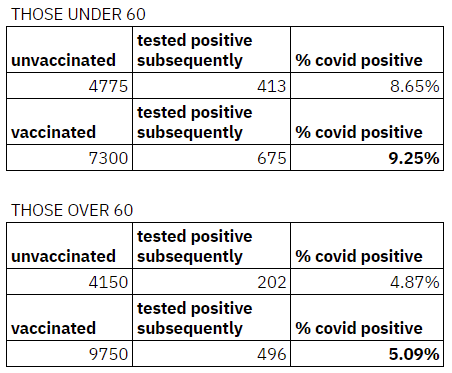
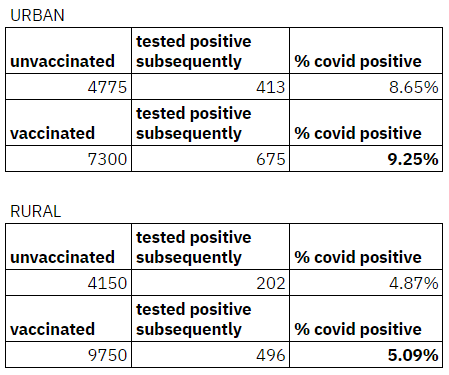
minor edits

Changed region(s): [[0.0, 0.5308, 0.9978, 1.0], [0.0, 0.0, 0.9978, 0.4424]]

diff --git a/_posts/2023-01-31-data-groening.md b/_posts/2023-01-31-data-groening.md
@@ -27,29 +27,27 @@ you need to back up your assertions with some data.
 
 In each of these scenarios, data is being used to tell a story. There is a null hypothesis and the data being presented is good only so long as it validates that story.
 
-# Anecdotal Evidence (Favourable Sampling)
+## Anecdotal Evidence aka Favourable Sampling
 
 The simplest and probably most convincing approach to story telling is to present highly specific anecdotal data. Here is an example:
 
 ![Anecdotal Evidence]({{ site.baseurl }}/assets/images/2023/anecdotalEvidence.png)
 
-# Cherry Picking (Favourable Filtering)
+## Cherry Picking aka Favourable Filtering
 
 Something slightly better and less obvious is cherry picking / selective filtering. There are no more individual stories being presented here but instead a statistic.
 
 ![Cherry Picking]({{ site.baseurl }}/assets/images/2023/toothpaste.png)
 
-# Data Groening (Utilizing Simpson's Paradox)
+# Data Groening aka Favourable Partitioning
 
-However none of this beats the insidiousness of what I'd like to call Data [Groening](https://en.wikipedia.org/wiki/Matt_Groening) because it utilizes Simpson's Paradox to create a false narrative.
+Neither anecdotal evidence nor cherry picking beats the insidiousness of what I'd like to call Data [Groening](https://en.wikipedia.org/wiki/Matt_Groening) because it manufactures a hard to catch Simpson's Paradox to support a false narrative. Especially in the context of Covid stats I have now repeatedly seen malicious use of this tactic which can be notoriously hard to catch.   
 
 ## Simpson's Paradox
 
-![Simpson's Paradox Gif from Wikimedia](https://upload.wikimedia.org/wikipedia/commons/f/fb/Simpsons_paradox_-_animation.gif)
-
 Simpson's Paradox described first by Edward Simpson and [explained beautifully by causality expert Judea Pearl here](https://ftp.cs.ucla.edu/pub/stat_ser/r414.pdf) is a means of partitioning or splitting the underlying data set in a manner that reverses results.
 
-While Simpson's Paradox is largely inadvertent, it can be proactively used to reverse unfavourable conclusions.
+While Simpson's Paradox is largely inadvertent, it can be proactively used to justify incorrect narratives.
 
 ## Groening Covid Data
 
@@ -59,7 +57,7 @@ A common fear amongst the masses is that taking the vaccine will itself give one
 
 In order to allay this fear, the State rolls out vaccination trials to a limited audience and then presents their results.
 
-The State says:
+The State releases this info:
 
 *Around 17,000 individuals across locations, age groups & gender were vaccinated.*
 *The incidence of covid amongst these individuals over a period of 3 months post vaccination was compared with unvaccinated individuals from the same locations/demographics*
@@ -78,13 +76,34 @@ How do you turn this around you wonder?
 Half a hour later you come up with this astounding counterfactual:
 
 *Getting vaccinated could increase your chance of contracting covid by 5-7%!*
-*Our analysis of publicly available data shows that this is true across both senior citizens and those under 60 years of age*
+*Our analysis of publicly available data shows that this is consistent across both urban and rural populations*
 
-![Counterfactual]({{ site.baseurl }}/assets/images/2023/counterfactual.png)
 
-The numbers are factually correct but misleading because they lean on a partition that doesn't aid causality.
+Notice that:
+1. On an aggregate basis the incidence of covid is the same whether one is vaccinated or unvaccinated i.e **~6.9%** of the population
+2. The moment we partition along the lines of over/under 60 being vaccinated starts to show a higher incidence of covid positive post vaccination across **BOTH** cohorts i.e 9.25% vs 8.65% and 5.09% vs 4.87%
 
-On Twitter at least, I see only one really sharp person repeatedly calling this out when it comes to covid numbers:
+There is no cherry picking of data here.   
+No information has been selectively excluded.  
+All we have done is create a partition to change the narrative which is pretty hard to counter.   
+
+![Simpson's Paradox Gif from Wikimedia](https://upload.wikimedia.org/wikipedia/commons/f/fb/Simpsons_paradox_-_animation.gif)
+
+## Is the partition real?
+The crux of the problem comes down to the determination of causality.  
+**Is there a reason why whether a person is an urban or rural dweller should stand to make a difference to their physiological ability to contract covid?**  
+If the answer is NO then the partition is nonsensical.   
+There are real partitions of course.   
+The best case in point being the [UC Berkeley Gender Bias Lawsuit](https://setosa.io/simpsons/)  
+
+Alternately if the partition was along the lines of gender or age it might be worth a closer look:  
+
+![Counter CounterFactual]({{ site.baseurl }}/assets/images/2023/countercounterFactual.png)
+
+At last some kind of explanation emerges.  
+It is possible that those under 60, who represent the working age population, dropped their guard and returned to work / commenced travel post vaccination leading to the slightly increased incidence. The over 60 cohort, otoh, continued to stay vigilant and incidence of covid reduced.
+
+On Twitter at least, I see only one really sharp person repeatedly calling out faux partitions when it comes to covid analyses:  
 
 <blockquote class="twitter-tweet"><p lang="en" dir="ltr">This idiot doen&#39;t get Simpson&#39;s paradox.<a href="https://t.co/6GGE0MsB59">https://t.co/6GGE0MsB59</a> <a href="https://t.co/gECoeIJb0P">https://t.co/gECoeIJb0P</a></p>&mdash; Nassim Nicholas Taleb (@nntaleb) <a href="https://twitter.com/nntaleb/status/1553326397388619776?ref_src=twsrc%5Etfw">July 30, 2022</a></blockquote> <script async src="https://platform.twitter.com/widgets.js" charset="utf-8"></script>
 
@@ -94,16 +113,18 @@ On Twitter at least, I see only one really sharp person repeatedly calling this 
 
 ## Avoiding Inadvertent Groening
 
-We collect far more data today than we've done in the past.
-Every data point comes with a far longer list of features/attributes irrespective of relevance all.
+Every data point comes with a far longer list of features/attributes than in the past making a zealous data analyst prone to inadvertent groening.
 
 Here are a few things one can do to avoid unintentional groening:
 
 **1. Inversion**
-Invert your null hypothesis and attempt to prove it
+Invert your null hypothesis and attempt to prove it.  
 
 **2. Parsimonious Partitions**
-If you cannot make sense of why a partition produces counter intuitive results examine/avoid that partition
+If you cannot make sense of why a partition produces counter intuitive results examine/avoid that partition.  
 
 **3. Keep it Simple**
-Build and operate simple models as far as possible so that explainability is maintained.
+Build and operate simple models as far as possible so that explainability is maintained.  
+
+**4. Measure what Matters**
+Collect as much data as possible that pertains to relevant / causal features. Avoid the temptation to create more features just because data has been collected if there is no clarity on causal impact.
